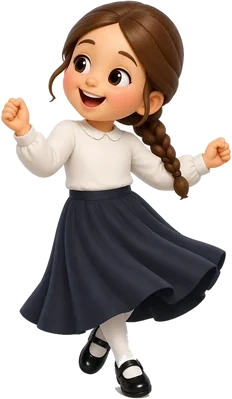
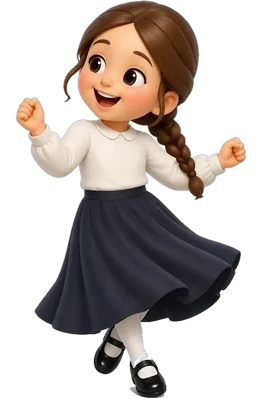
v127: the children and grandpa dance real steps (new poses from Gemini) beside their original picture
Claude-Session: https://claude.ai/code/session_01ABvEC9i7oWek9Z9TUcU2qQ

diff --git a/index.html b/index.html
@@ -1060,7 +1060,7 @@ let localStream=null, videoEnabled=false, micEnabled=true;
 const SB_URL='https://cdgqodtbdhsqkvcgcdlm.supabase.co';
 const SB_KEY='sb_publishable_B4HOCQF3IxN_6Ojz1_ctnA_k6JEAR4g';
 const FAM_COLORS=['#f5c842','#3d7aed','#34d399','#f87171','#c084fc','#fb923c','#22d3ee','#f472b6'];
-const APP_VERSION='v126';
+const APP_VERSION='v127';
 document.getElementById('appVersion').textContent=APP_VERSION;
 document.querySelectorAll('.copy-year').forEach(e=>e.textContent=new Date().getFullYear());
 
@@ -3243,12 +3243,13 @@ function danceUI(){const b=document.getElementById('tuneDance');if(b)b.classList
 // ── 🕺 the dancers: the Hasid from the start; the children join when the singing gets going; then the grandparents.
 //    Each moves with the beat in its own way — sways, steps, hops, turns — and the pairs change places every few bars.
 const GUY_POSES=['pose1','pose2','pose3','side','back'].map(n=>{const im=new Image();im.src='hasid_'+n+'.webp';return im});   // (loaded ahead — no flicker)
+const POSES={boy:['a','c'],girl:['a','b'],gpa:['a','b']};          // extra dance poses (front view), beside the original picture
 const VIEWS={};for(const [k,n] of [['boy','boy'],['girl','girl'],['gpa','grandpa'],['gma','grandma']]){VIEWS[k]={};
-    for(const v of ['front','side','back']){const im=new Image();im.src='dancer_'+n+(v==='front'?'':'_'+v)+'.webp';VIEWS[k][v]=im}}
+    for(const v of ['front','side','back',...(POSES[k]||[])]){const im=new Image();im.src='dancer_'+n+(v==='front'?'':'_'+v)+'.webp';VIEWS[k][v]=im}}
 const TURNS={boy:{at:2,beats:1},girl:{at:6,beats:1},gpa:{at:9,beats:2},gma:{at:12,beats:2}};    // when each one turns around (in a 16-beat round)
 (function dancersLoop(){
-    const F={guy:{id:'danceGuy',h:240,side:-1},boy:{id:'danceBoy',h:150*419/420,side:-1},girl:{id:'danceGirl',h:150*399/420,side:-1},
-             gpa:{id:'danceGpa',h:225*417/420,side:1},gma:{id:'danceGma',h:225*378/420,side:1}};
+    const F={guy:{id:'danceGuy',h:240,side:-1},boy:{id:'danceBoy',h:150*419/420,side:-1,asp:207/419},girl:{id:'danceGirl',h:150*399/420,side:-1,asp:232/399},
+             gpa:{id:'danceGpa',h:225*417/420,side:1,asp:197/417},gma:{id:'danceGma',h:225*378/420,side:1,asp:196/378}};
     let n=0,lastNext=0,lastShift=null,kidsSwap=false,oldSwap=false;
     for(const f of Object.values(F)){f.x=null;f.face=1}
     function loop(now){requestAnimationFrame(loop);
@@ -3269,7 +3270,7 @@ const TURNS={boy:{at:2,beats:1},girl:{at:6,beats:1},gpa:{at:9,beats:2},gma:{at:1
         if(n%8===4&&ph<.05&&!loop.so){loop.so=1;oldSwap=!oldSwap}else if(n%8!==4)loop.so=0;        // the grandparents too, in between
         // sizes and places (beside the dreidel, in its own scale)
         const kk=parseFloat(getComputedStyle(wrap).getPropertyValue('--k'))||1,sc=mobile?.5:kk,W2=wrap.offsetWidth/2;
-        const w=f=>{const im=f.el;return im.naturalWidth?f.h*sc*im.naturalWidth/im.naturalHeight:f.h*sc*.5};
+        const w=f=>{if(f.asp)return f.h*sc*f.asp;const im=f.el;return im.naturalWidth?f.h*sc*im.naturalWidth/im.naturalHeight:f.h*sc*.5};   // (the body's width — not the wider picture)
         const gx=-(W2+14+w(F.guy)/2);
         const k1=gx-w(F.guy)/2-8-w(F.boy)/2,k2=k1-w(F.boy)/2-4-w(F.girl)/2;
         const r1=W2+14+w(F.gpa)/2,r2=r1+w(F.gpa)/2+4-6+w(F.gma)/2;
@@ -3304,6 +3305,10 @@ const TURNS={boy:{at:2,beats:1},girl:{at:6,beats:1},gpa:{at:9,beats:2},gma:{at:1
                     sx=k==='gpa'?1:-1;
                 }
                 if(view!=='front'){sx=vsx||1;rot*=.5}
+                else if(POSES[k]){                                         // dance steps: the picture we had, a step, another move, the step mirrored
+                    const P=POSES[k],step=k==='gpa'?Math.floor(n/2):n,i=((step%4)+4)%4;
+                    view=[ 'front',P[0],P[1],P[0]][i];if(i===3)sx=-1;else if(i!==0)sx=1;
+                    if(i!==0)rot*=.5}
                 if(f.view!==view){f.view=view;f.el.src=VIEWS[k][view].src}
             }
             f.el.style.transform=`translateX(calc(-50% + ${x.toFixed(1)}px)) translateY(${y.toFixed(1)}px) rotate(${rot.toFixed(2)}deg) scale(${sx.toFixed(3)},${sy.toFixed(3)})`;

diff --git a/sw.js b/sw.js
@@ -10,7 +10,7 @@
  * When changing this file, bump CACHE so old caches are cleaned up.
  */
 
-const CACHE = 'dreidel-v126';
+const CACHE = 'dreidel-v127';
 const FALLBACK = './index.html';
 // Each picture is listed once, as .webp. The .png / .jpg twins exist only for a browser that cannot
 // show webp; precaching both made every install download the pictures twice (about 1.2 MB extra).
@@ -19,7 +19,7 @@ const STATIC = [
   './index.html', './manifest.json', './icon-192.png', './icon-512.png', './apple-touch-icon.png',
   './dreidel.webp', './d3-face.webp', './d3-tip.webp', './d3-handle.webp', './bg-table.webp',
   './bg-table-portrait.webp', './coin.webp', './pile.webp', './trivia.json',
-  './dancer.webp', './dancer_big.webp', './hasid_pose1.webp', './hasid_pose2.webp', './hasid_pose3.webp', './hasid_side.webp', './hasid_back.webp', './dancer_boy.webp', './dancer_boy_side.webp', './dancer_boy_back.webp', './dancer_girl_side.webp', './dancer_girl_back.webp', './dancer_grandpa_side.webp', './dancer_grandpa_back.webp', './dancer_grandma_side.webp', './dancer_grandma_back.webp', './dancer_girl.webp', './dancer_grandpa.webp', './dancer_grandma.webp', './bg-table-nod.webp', './bg-table-portrait-nod.webp', './dancers_old.webp', './cstack1.webp', './cstack2.webp', './cstack3.webp', './cstack4.webp', './cstack5.webp', './cstack6.webp', './cstack7.webp', './cstack8.webp', './cstack9.webp', './cstack10.webp', './cstack11.webp', './cstack12.webp',
+  './dancer.webp', './dancer_big.webp', './hasid_pose1.webp', './hasid_pose2.webp', './hasid_pose3.webp', './hasid_side.webp', './hasid_back.webp', './dancer_boy.webp', './dancer_boy_a.webp', './dancer_boy_c.webp', './dancer_girl_a.webp', './dancer_girl_b.webp', './dancer_grandpa_a.webp', './dancer_grandpa_b.webp', './dancer_boy_side.webp', './dancer_boy_back.webp', './dancer_girl_side.webp', './dancer_girl_back.webp', './dancer_grandpa_side.webp', './dancer_grandpa_back.webp', './dancer_grandma_side.webp', './dancer_grandma_back.webp', './dancer_girl.webp', './dancer_grandpa.webp', './dancer_grandma.webp', './bg-table-nod.webp', './bg-table-portrait-nod.webp', './dancers_old.webp', './cstack1.webp', './cstack2.webp', './cstack3.webp', './cstack4.webp', './cstack5.webp', './cstack6.webp', './cstack7.webp', './cstack8.webp', './cstack9.webp', './cstack10.webp', './cstack11.webp', './cstack12.webp',
   './trivia-editor.html'
 ];
 
